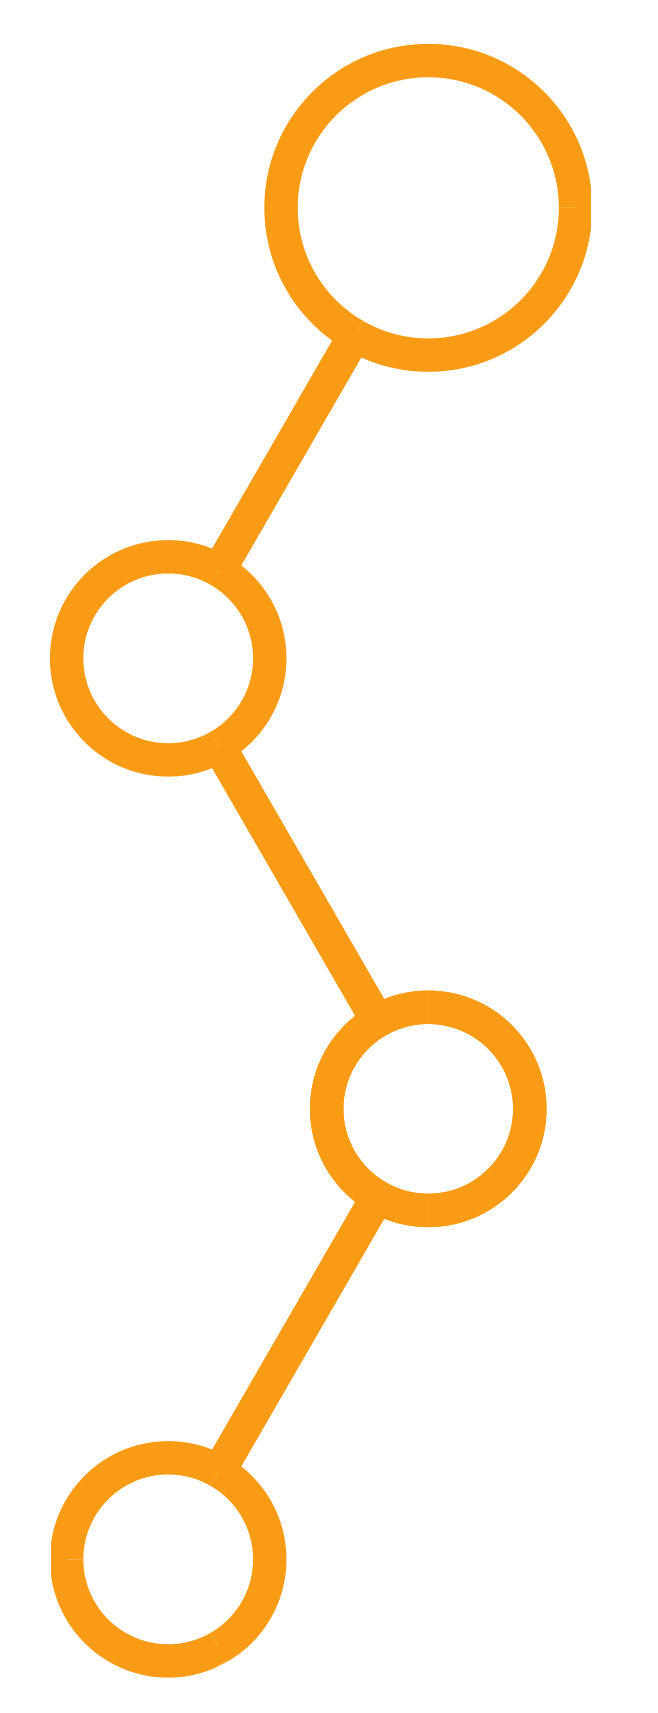
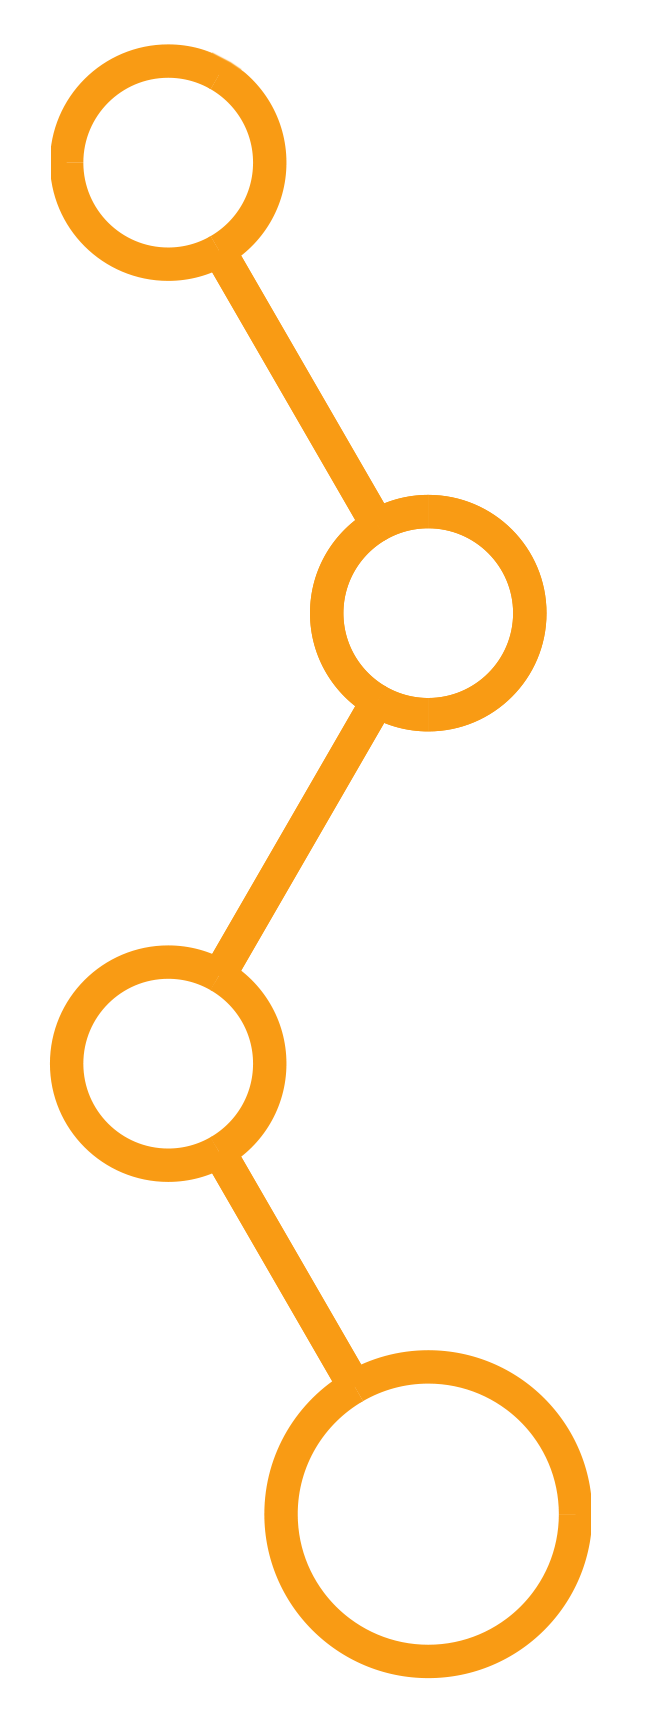
add bond pattern graphics

Changed region(s): [[0.0608, 0.0, 0.9119, 0.9901]]

diff --git a/src/components/HomeSplash.js b/src/components/HomeSplash.js
@@ -3,6 +3,7 @@ import "./home_splash.css";
 import HomeSectionButton from "./HomeSectionButton";
 import whitelogo from "../assets/graphics/1080x270-03.png";
 import protein from "../assets/graphics/protein.png";
+import bondpattern2 from "../assets/graphics/bondpattern2.png";
 
 const HomeSplash = () => {
   return (
@@ -20,6 +21,14 @@ const HomeSplash = () => {
           text="JOIN NOW"
           backgroundColor="#0F0A59"
           textColor="#ffffff"
+        />
+        <br />
+        <img
+          src={bondpattern2}
+          alt="graphic"
+          id="bondpattern2"
+          width="46"
+          height="150"
         />
       </div>
       <div id="proteincontainer">

diff --git a/src/components/HomeCommunity.js b/src/components/HomeCommunity.js
@@ -4,6 +4,7 @@ import HomeSectionButton from "./HomeSectionButton";
 import insta1 from "../assets/graphics/insta1.jpg";
 import insta2 from "../assets/graphics/insta2.jpg";
 import insta3 from "../assets/graphics/insta3.jpg";
+import bondpattern2white from "../assets/graphics/bondpattern2_white.png";
 
 const HomeCommunity = () => {
   return (
@@ -33,6 +34,14 @@ const HomeCommunity = () => {
           </div>
         </div>
       </div>
+      {/* <br /> */}
+      <img
+        src={bondpattern2white}
+        alt="graphic"
+        id="bondpattern2white"
+        width="46"
+        height="150"
+      />
     </div>
   );
 };

diff --git a/src/components/HomeFindOutMore.js b/src/components/HomeFindOutMore.js
@@ -1,6 +1,7 @@
 import React from "react";
 import "./home_findoutmore.css";
 import HomeSectionButton from "./HomeSectionButton";
+import bondpattern1 from "../assets/graphics/bondpattern1.png";
 
 const HomeFindOutMore = () => {
   return (
@@ -36,6 +37,14 @@ const HomeFindOutMore = () => {
             id="meetheadcoach"
           ></iframe>
         </div>
+        <br />
+        <img
+          src={bondpattern1}
+          alt="graphic"
+          id="bondpattern1"
+          width="85"
+          height="220"
+        />
       </div>
     </div>
   );

diff --git a/src/components/home_findoutmore.css b/src/components/home_findoutmore.css
@@ -5,6 +5,7 @@
   color: #0f0a59;
   text-align: left;
   padding: 28px;
+  margin-bottom: 100px;
 }
 
 #allfor1 {
@@ -23,6 +24,8 @@
   margin: 64px 32px;
 }
 
-/* #splashtext {
-  font-family: "P22 Underground Light", sans-serif;
-} */
+#bondpattern1 {
+  position: absolute;
+  bottom: -700px;
+  left: 50%;
+}

diff --git a/src/components/home_splash.css b/src/components/home_splash.css
@@ -37,6 +37,11 @@
 
 #splashcontainer {
   margin: 100px;
+  margin-top: 84px;
   width: 40%;
   z-index: 5;
+}
+
+#bondpattern2 {
+  position: absolute;
 }

diff --git a/src/components/home_community.css b/src/components/home_community.css
@@ -23,3 +23,9 @@
 .instapic {
   margin: 8px;
 }
+
+#bondpattern2white {
+  position: relative;
+  top: -50px;
+  transform: rotate(90deg);
+}
